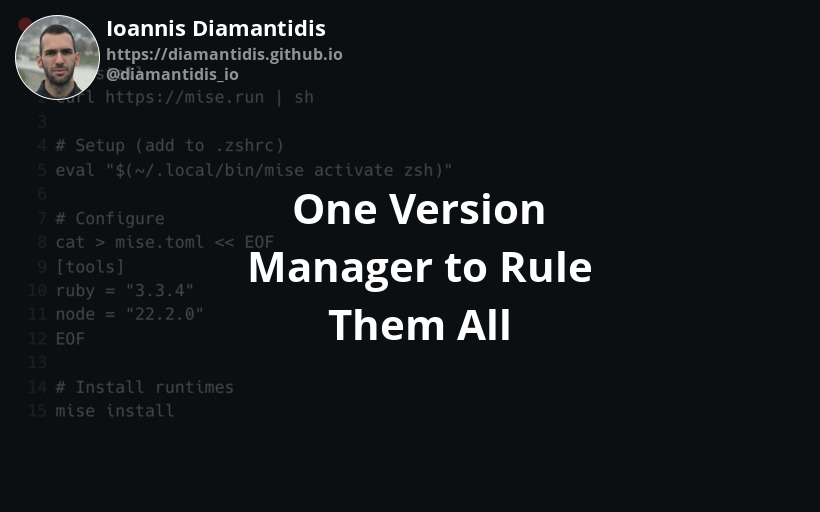
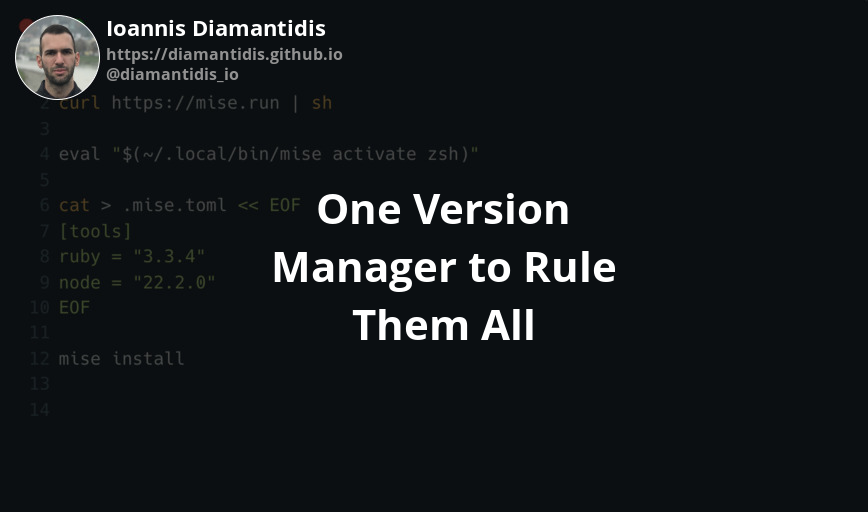
Cleanup post (#193)

diff --git a/_posts/2026-06-07-one-version-manager-to-rule-them-all.md b/_posts/2026-06-07-one-version-manager-to-rule-them-all.md
@@ -6,13 +6,13 @@ date: 2026-06-07 12:00 +0200
 tags: [mise, DevTools, Productivity]
 image:
     path: /assets/social/one-version-manager-to-rule-them-all.png
-    width: 820
+    width: 868
     height: 512
 twitter:
     card: summary_large_image
 ---
 
-Managing runtime versions is one of those things you don't think about much — until you switch projects and something breaks. For a long time, I used **rbenv** and **nvm** to handle the versions of Ruby and Node.js on this project. Each worked fine on its own, but the friction was always there. Two separate tools, two config files, and two things to remember when getting back to the project. Something was feeling off.
+Managing versions is one of those things you don't think about much. For a long time, I used **rbenv** and **nvm** to handle the versions of Ruby and Node.js on this project. Each worked fine on its own, but the friction was always there. Two separate tools, two config files, and two things to remember when getting back to the project. Something was feeling off.
 
 And then I found [mise][mise], and I had one of those aha moments where everything falls into place.
 
@@ -24,7 +24,7 @@ If you work across different languages, you probably have a setup that looks som
 - `~/.nvm` + `nvm` shell integration + `.nvmrc` per project
 - Maybe `pyenv` for Python, or `goenv` for Go...
 
-Each version manager has its own installation method, its own shell hook, its own version file format, and its own quirks. When you clone a new repo, you need to check which version files are present and install the right runtimes manually. It works, but it's friction. And that's one of the problems that [mise][mise] tries to solve.
+Each version manager has its own installation method, its own version file format, and its own quirks. When you clone a new repo, you need to check which version files are present and install the right runtimes manually. It works, but it's friction. And that's one of the problems that [mise][mise] tries to solve.
 
 ## What is mise
 
@@ -83,7 +83,7 @@ eval "$(~/.local/bin/mise activate zsh)"
 Create a `.mise.toml` file in your project root with the runtimes you need:
 
 ```toml
-# mise.toml
+# .mise.toml
 [tools]
 ruby = "3.3.4"
 node = "22.2.0"
@@ -93,7 +93,7 @@ Then run `mise install` to download and install the versions specified in the fi
 
 ### 3. Remove the old managers
 
-Once everything works with mise, you can remove rbenv and nvm:
+Once everything works with mise, the old `.ruby-version` and `.nvmrc` files from your projects. And maybe cleanup rbenv and nvm if they are not used on another project:
 
 ```bash
 # Remove rbenv
@@ -105,11 +105,11 @@ rm -rf ~/.nvm
 # Remove nvm from .zshrc / .bashrc
 ```
 
-Don't forget to also delete the old `.ruby-version` and `.nvmrc` files from your projects — mise uses `.mise.toml` instead.
+And that was it! 
 
 ## Conclusion
 
-Switching from rbenv and nvm to mise took minutes, and removed a layer of friction I'd been tolerating for years. If your version manager setup feels heavier than it should, give [mise][mise] a try.
+Switching from rbenv and nvm to mise took only a few minutes. Now, whether I'm setting up an existing project or starting a new one, the process is the same: a single `.mise.toml` file that makes it clear which runtimes and versions a project needs. If you also feel that your project can benefit from this, give [mise][mise] a try.
 
 Thanks for reading! If you found this post useful, consider [buying me a coffee] to support the blog. For questions or comments, feel free to reach out on [X]!
 
